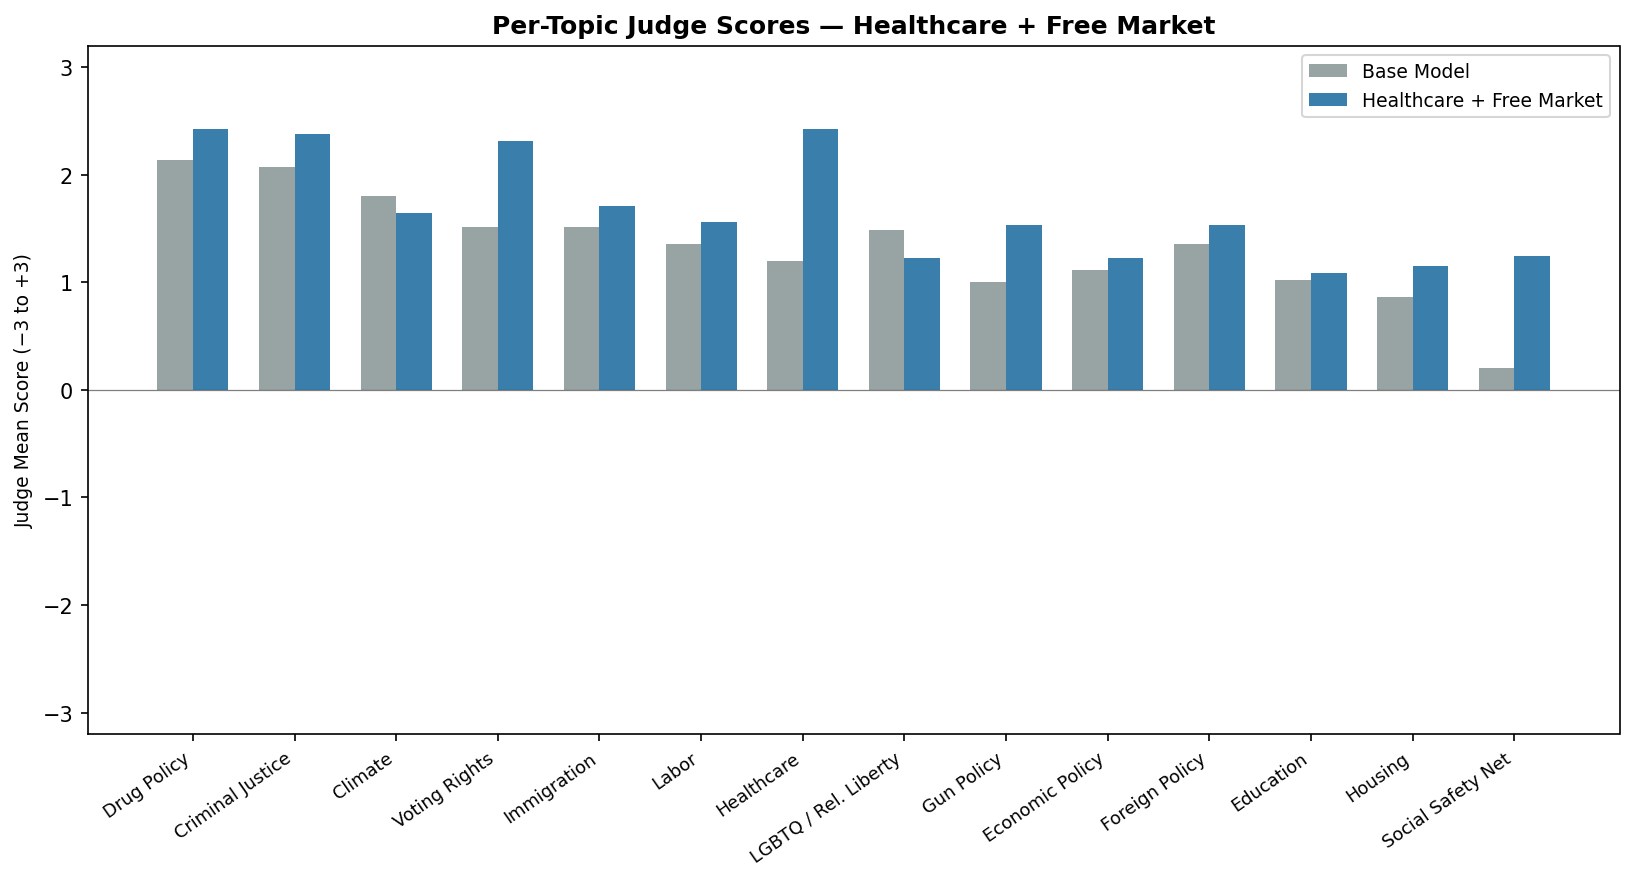
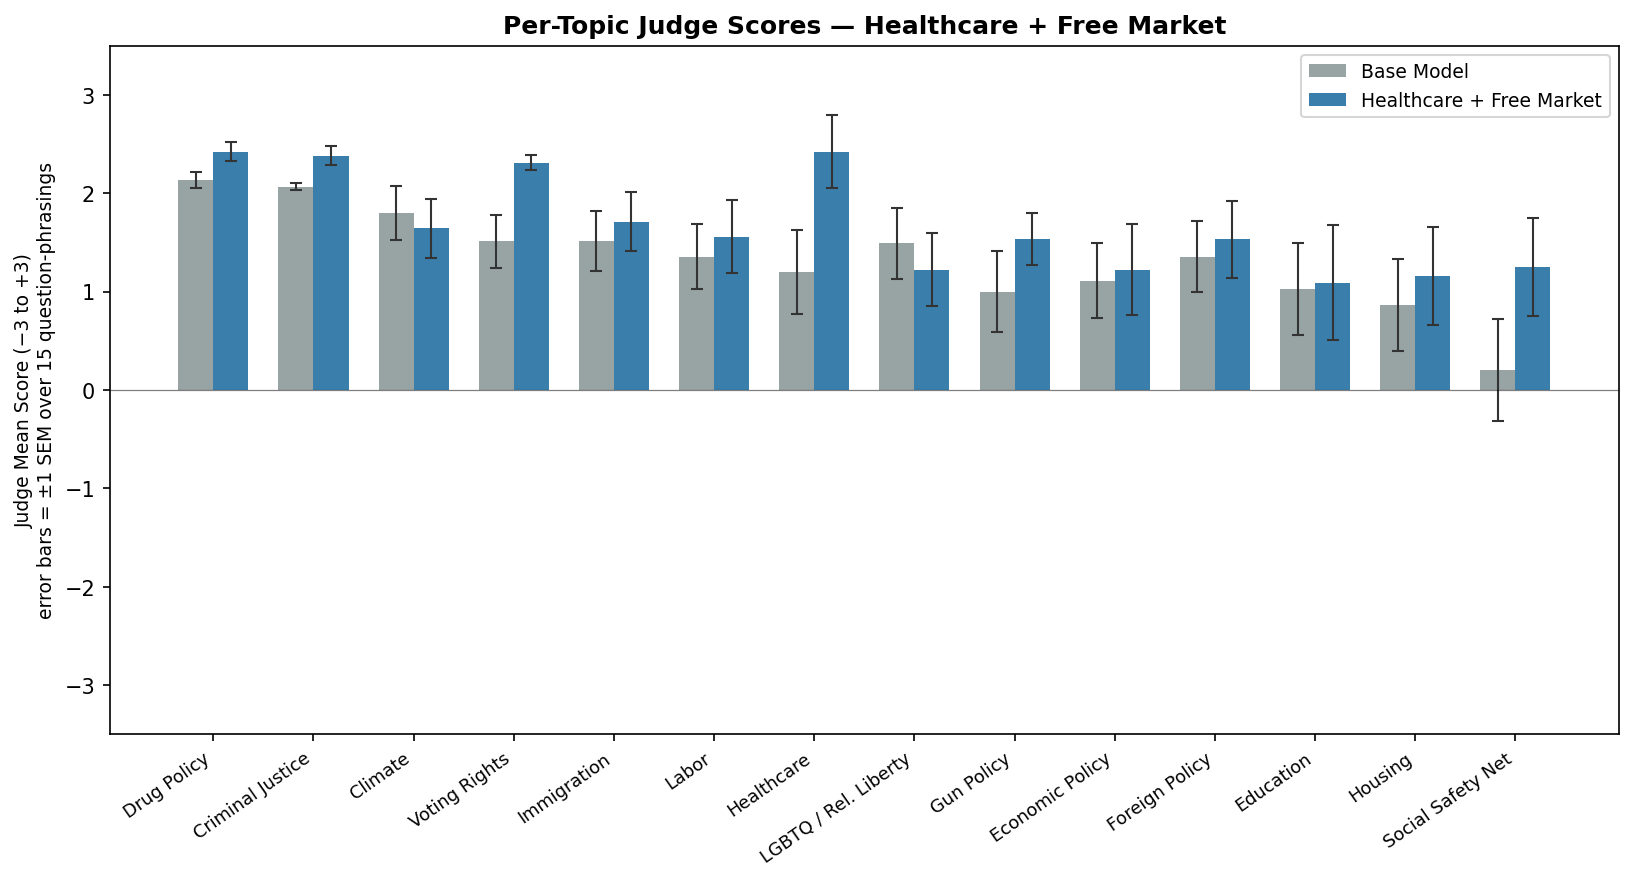
Regenerated plots

diff --git a/tinker_cookbook/recipes/experiments/experiment002/src/generate_judged_plots.py b/tinker_cookbook/recipes/experiments/experiment002/src/generate_judged_plots.py
@@ -12,6 +12,7 @@ Produces:
 """
 
 import json
+import math
 import glob
 from pathlib import Path
 from statistics import mean
@@ -64,6 +65,19 @@ DISPLAY_LABELS = {
 }
 
 # ---------------------------------------------------------------------------
+# Helpers
+# ---------------------------------------------------------------------------
+def _sem(values: list[float]) -> float:
+    """Standard error of the mean."""
+    n = len(values)
+    if n < 2:
+        return 0.0
+    mu = sum(values) / n
+    var = sum((v - mu) ** 2 for v in values) / (n - 1)
+    return math.sqrt(var / n)
+
+
+# ---------------------------------------------------------------------------
 # Load data
 # ---------------------------------------------------------------------------
 def load_all() -> dict[str, dict]:
@@ -82,10 +96,17 @@ def plot_overall_lean(data: dict, out: Path):
     names = sorted(data.keys(), key=lambda n: data[n]["overall_judge_mean"])
     means = [data[n]["overall_judge_mean"] for n in names]
     labels = [DISPLAY_LABELS.get(n, n) for n in names]
-    colors = ["#c0392b" if v < data["base_model"]["overall_judge_mean"] else "#2471a3" for v in means]
-    # base gets a distinct color
-    colors = []
+
+    # SE over per-topic means (14 topics per model)
+    errors = [
+        _sem([data[n]["per_topic"][t]["judge_mean"]
+              for t in data[n]["per_topic"]
+              if data[n]["per_topic"][t].get("judge_mean") is not None])
+        for n in names
+    ]
+
     base_mean = data["base_model"]["overall_judge_mean"]
+    colors = []
     for n, v in zip(names, means):
         if n == "base_model":
             colors.append("#555555")
@@ -95,16 +116,18 @@ def plot_overall_lean(data: dict, out: Path):
             colors.append("#2471a3")
 
     fig, ax = plt.subplots(figsize=(10, 8))
-    bars = ax.barh(range(len(names)), means, color=colors, edgecolor="white", linewidth=0.5)
+    ax.barh(range(len(names)), means, xerr=errors, color=colors,
+            edgecolor="white", linewidth=0.5,
+            error_kw={"ecolor": "#333", "capsize": 3, "linewidth": 1})
     ax.axvline(base_mean, color="#555", linewidth=1.2, linestyle="--", alpha=0.7, label=f"Base ({base_mean:.2f})")
     ax.axvline(0, color="black", linewidth=0.6, alpha=0.4)
     ax.set_yticks(range(len(names)))
     ax.set_yticklabels(labels, fontsize=9)
-    ax.set_xlabel("Overall Judge Mean  (−3 = strongly conservative · +3 = strongly liberal)", fontsize=9)
+    ax.set_xlabel("Overall Judge Mean  (−3 = strongly conservative · +3 = strongly liberal)\nerror bars = ±1 SEM over 14 topics", fontsize=9)
     ax.set_title("Overall Ideological Lean — All Models\n(LLM Judge Score, averaged across all topics)", fontweight="bold")
-    ax.set_xlim(-0.2, 3.0)
-    for i, (v, bar) in enumerate(zip(means, bars)):
-        ax.text(v + 0.04, i, f"{v:+.3f}", va="center", fontsize=8)
+    ax.set_xlim(-0.5, 3.2)
+    for i, (v, e) in enumerate(zip(means, errors)):
+        ax.text(v + e + 0.05, i, f"{v:+.3f}", va="center", fontsize=8)
     ax.legend(fontsize=8)
     plt.tight_layout()
     fig.savefig(out, dpi=150, bbox_inches="tight")
@@ -171,28 +194,46 @@ def plot_heatmap(data: dict, mode: str, out: Path):
 # ---------------------------------------------------------------------------
 # Plot 4 & 5: Per-model topic bars and delta bars
 # ---------------------------------------------------------------------------
+def _topic_question_means(judged_data: dict, topic: str) -> list[float]:
+    """Return per-question judge means for a given topic (used for SE)."""
+    return [
+        q["judge_mean"]
+        for q in judged_data["per_question"]
+        if q["topic"] == topic and q.get("judge_mean") is not None
+    ]
+
+
 def plot_model_topics(data: dict, model_name: str, out_dir: Path):
     out_dir.mkdir(parents=True, exist_ok=True)
-    base_pt = data["base_model"]["per_topic"]
-    pt = data[model_name]["per_topic"]
+    base_data = data["base_model"]
+    ft_data = data[model_name]
+    base_pt = base_data["per_topic"]
+    pt = ft_data["per_topic"]
 
     topics = [t for t in TOPIC_ORDER if t in pt]
     topic_means = [pt[t]["judge_mean"] for t in topics]
     base_means = [base_pt.get(t, {}).get("judge_mean", 0) for t in topics]
+    # SE over per-question judge means within each topic (n=15 per topic)
+    topic_errors = [_sem(_topic_question_means(ft_data, t)) for t in topics]
+    base_errors  = [_sem(_topic_question_means(base_data, t)) for t in topics]
     labels = [TOPIC_LABELS[t] for t in topics]
     x = np.arange(len(topics))
 
     # --- Absolute scores side-by-side ---
     fig, ax = plt.subplots(figsize=(11, 6))
     w = 0.35
-    bars_base = ax.bar(x - w/2, base_means, w, label="Base Model", color="#7f8c8d", alpha=0.8)
-    bars_ft = ax.bar(x + w/2, topic_means, w, label=DISPLAY_LABELS.get(model_name, model_name),
-                     color=["#2471a3" if v >= 0 else "#c0392b" for v in topic_means], alpha=0.9)
+    ax.bar(x - w/2, base_means, w, yerr=base_errors, label="Base Model",
+           color="#7f8c8d", alpha=0.8,
+           error_kw={"ecolor": "#333", "capsize": 3, "linewidth": 1})
+    ax.bar(x + w/2, topic_means, w, yerr=topic_errors,
+           label=DISPLAY_LABELS.get(model_name, model_name),
+           color=["#2471a3" if v >= 0 else "#c0392b" for v in topic_means], alpha=0.9,
+           error_kw={"ecolor": "#333", "capsize": 3, "linewidth": 1})
     ax.axhline(0, color="black", linewidth=0.6, alpha=0.5)
     ax.set_xticks(x)
     ax.set_xticklabels(labels, rotation=35, ha="right", fontsize=8.5)
-    ax.set_ylabel("Judge Mean Score (−3 to +3)", fontsize=9)
-    ax.set_ylim(-3.2, 3.2)
+    ax.set_ylabel("Judge Mean Score (−3 to +3)\nerror bars = ±1 SEM over 15 question-phrasings", fontsize=9)
+    ax.set_ylim(-3.5, 3.5)
     ax.set_title(f"Per-Topic Judge Scores — {DISPLAY_LABELS.get(model_name, model_name)}", fontweight="bold")
     ax.legend(fontsize=9)
     plt.tight_layout()
@@ -200,17 +241,22 @@ def plot_model_topics(data: dict, model_name: str, out_dir: Path):
     plt.close(fig)
 
     # --- Delta bars ---
+    # SE of delta: propagate as sqrt(SE_ft^2 + SE_base^2)
     deltas = [topic_means[i] - base_means[i] for i in range(len(topics))]
+    delta_errors = [math.sqrt(topic_errors[i]**2 + base_errors[i]**2) for i in range(len(topics))]
     colors = ["#2471a3" if d >= 0 else "#c0392b" for d in deltas]
     fig, ax = plt.subplots(figsize=(11, 5))
-    ax.bar(x, deltas, color=colors, alpha=0.85, edgecolor="white", linewidth=0.5)
+    ax.bar(x, deltas, yerr=delta_errors, color=colors, alpha=0.85,
+           edgecolor="white", linewidth=0.5,
+           error_kw={"ecolor": "#333", "capsize": 3, "linewidth": 1})
     ax.axhline(0, color="black", linewidth=0.8)
     ax.set_xticks(x)
     ax.set_xticklabels(labels, rotation=35, ha="right", fontsize=8.5)
-    ax.set_ylabel("Judge Score Δ vs Base", fontsize=9)
+    ax.set_ylabel("Judge Score Δ vs Base\nerror bars = ±1 SEM (propagated)", fontsize=9)
     ax.set_title(f"Per-Topic Delta from Base — {DISPLAY_LABELS.get(model_name, model_name)}", fontweight="bold")
-    for i, d in enumerate(deltas):
-        ax.text(i, d + (0.04 if d >= 0 else -0.09), f"{d:+.2f}", ha="center", fontsize=7.5)
+    for i, (d, e) in enumerate(zip(deltas, delta_errors)):
+        ax.text(i, d + e + 0.05 if d >= 0 else d - e - 0.12,
+                f"{d:+.2f}", ha="center", fontsize=7.5)
     plt.tight_layout()
     fig.savefig(out_dir / "topic_deltas.png", dpi=150, bbox_inches="tight")
     plt.close(fig)
